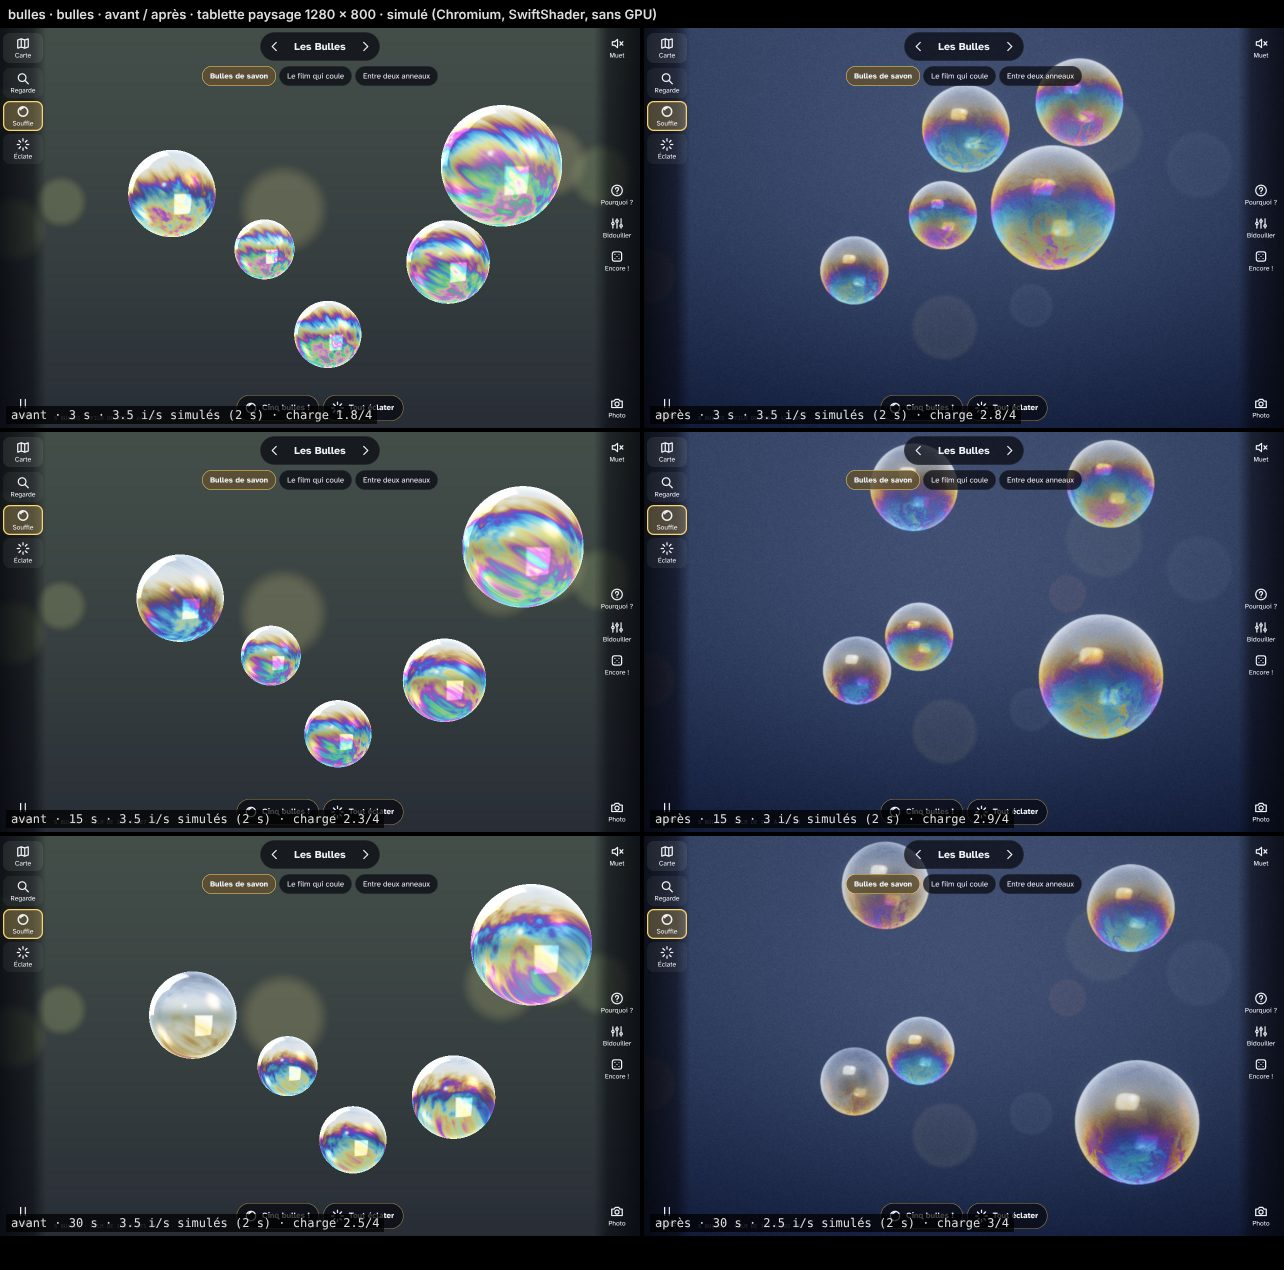
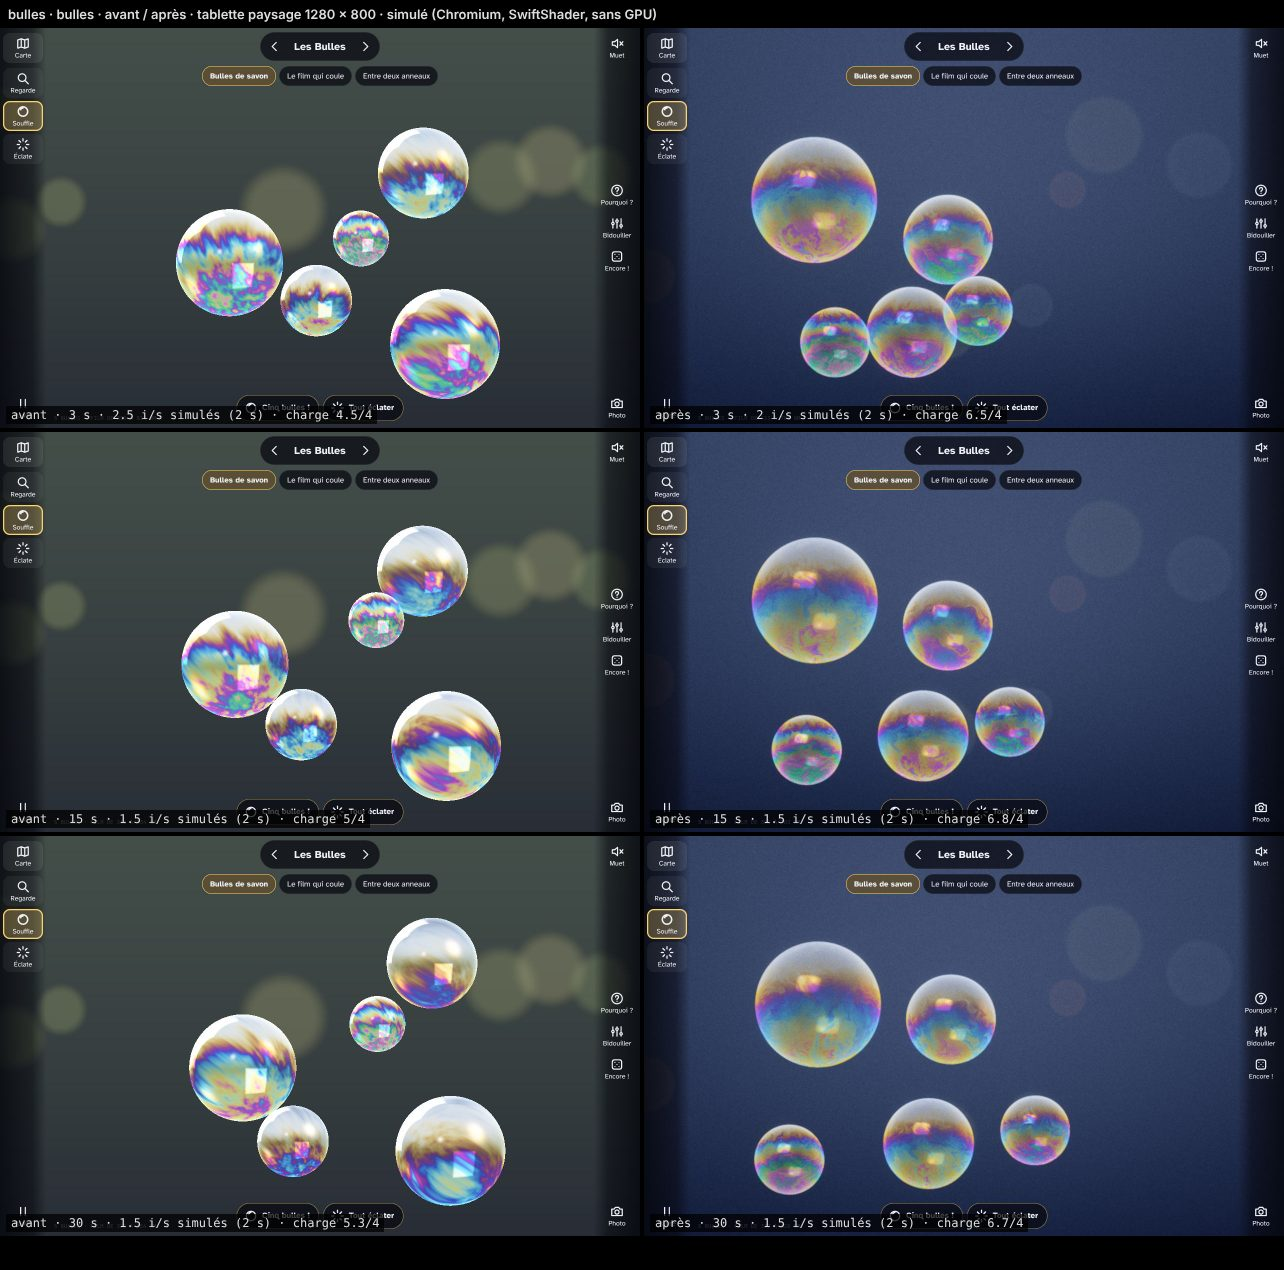
Rendu B · Les Bulles : coût constant (5 bulles vivantes à surface égale, gouttelettes plafonnées)
La scène des bulles de savon démarre au régime et y reste : toujours 5 bulles vivantes, remplacées dès qu'une éclate,
avec la même surface couverte (somme des r² visée, rayons entre 0,06 et 0,16 fois la taille de la vue), et une réserve
de 90 gouttelettes au plus, dont les plus anciennes sont recyclées. Sur hôte calme, pendant 30 s : 5 bulles, couverture
constante de 12 %, tas constant ; la baisse mesurée suivait la charge de l'hôte. Banc corrigé (2 s avant chaque capture) :
avant 2,5 · 1,5 · 1,5 i/s (charge 4,5 à 5,3), après 2 · 1,5 · 1,5 i/s (charge 6,5 à 6,8), à 3, 15 et 30 s.
Ce qui reste exact : la physique du film, les lois d'épaisseur, la simulation des bulles (forces, drainage, éclatement),
les réglages et leurs chemins.

Claude-Session: https://claude.ai/code/session_01MS9d5LtNxKhjVi4V5CV4hG

diff --git a/app/js/machines/s-bulles.js b/app/js/machines/s-bulles.js
@@ -14,7 +14,7 @@
   const { TAU, clamp, rnd } = window.FK;
   const FKR = window.FKR;
   const fr = (x, d = 1) => x.toFixed(d).replace('.', ',');
-  const MAXB = 12, MAXV = 8; // MAXV : bulles à l'écran au plus (plafond de coût)
+  const MAXB = 12, MAXV = 8, NB = 5, MAXG = 90; // MAXV : bulles à l'écran au plus ; NB : bulles vivantes, toujours ; MAXG : gouttelettes au plus (coût constant)
   const LUTN = 2048; // table du film : un texel par nanomètre de chemin optique e·cos θt, de 0 à 2 048 nm
 
   // ── la table des couleurs du film (filmMince de FKR), calculée une fois ──
@@ -392,6 +392,7 @@ void main(){
       b.pop = 0.001; b.px = clamp((x - b.x) / b.r, -0.9, 0.9); b.py = clamp((y - b.y) / b.r, -0.9, 0.9);
       // gouttelettes projetées par le bord qui se rétracte
       for (let i = 0; i < 18; i++) { const a = rnd(TAU); drops.push({ x: b.x + Math.cos(a) * b.r, y: b.y + Math.sin(a) * b.r, vx: Math.cos(a) * rnd(260, 80), vy: Math.sin(a) * rnd(260, 80), life: rnd(0.5, 0.2), teinte: Math.random() < 0.3 ? LAMPE_N : BLANC }); }
+      if (drops.length > MAXG) drops.splice(0, drops.length - MAXG);   // réserve plafonnée : les plus anciennes sont recyclées
       if (snd()) { au.noise(0.05, 0.12, 3500, 1.2, 'bandpass'); au.noise(0.12, 0.05, 900, 1, 'lowpass'); }
     }
     let wind = [];
@@ -418,9 +419,15 @@ void main(){
       for (const d of drops) { d.x += d.vx * dt; d.y += d.vy * dt; d.vy += 600 * dt; d.life -= dt; }
       drops = drops.filter((d) => d.life > 0);
       wind = wind.filter((w) => (w.t -= dt) > 0);
-      if (cfg.auto && B.length < 5 && Math.random() < dt * 0.6) addBubble(v.x0 + rnd(v.w * 0.8, v.w * 0.2), H * rnd(0.9, 0.6));
+      // coût constant : toujours NB bulles vivantes, et la même surface couverte (une bulle qui éclate est remplacée aussitôt)
+      if (cfg.auto) {
+        const vives = B.filter((b) => !b.pop);
+        if (vives.length < NB) { const m = Math.min(v.w, H), reste = aire() - vives.reduce((a, b) => a + b.r * b.r, 0); addBubble(v.x0 + rnd(v.w * 0.8, v.w * 0.2), H * rnd(0.9, 0.6), clamp(Math.sqrt(Math.max(reste, 0)), m * 0.06, m * 0.16)); }
+      }
     }
     const thick = (b) => b.d0 * Math.max(0.03, 1 - (b.age / b.life) * 0.97);
+    // surface visée (somme des r²) : NB fois la moyenne de r² pour r tiré entre 0,06 et 0,16 fois la taille de la vue
+    const aire = () => { const m = Math.min(view().w, H); return NB * 0.01293 * m * m; };
 
     /* ───────── film dans un cadre ───────── */
     let filmAge = 0, vort = [];
@@ -545,7 +552,13 @@ void main(){
 
     function setScene(id) {
       cfg.scene = id; label = null;
-      if (id === 'bulles' && !B.length) { const v = view(); for (let i = 0; i < 5; i++) addBubble(v.x0 + rnd(v.w * 0.85, v.w * 0.15), H * rnd(0.85, 0.25)); B.forEach((b) => (b.age = rnd(b.life * 0.6))); }
+      if (id === 'bulles' && !B.length) {
+        // départ au régime : NB bulles, à la surface visée dès la première image
+        const v = view(), m = Math.min(v.w, H);
+        for (let i = 0; i < NB; i++) addBubble(v.x0 + rnd(v.w * 0.85, v.w * 0.15), H * rnd(0.85, 0.25));
+        const k = Math.sqrt(aire() / B.reduce((a, b) => a + b.r * b.r, 0));
+        B.forEach((b) => { b.age = rnd(b.life * 0.6); b.r = clamp(b.r * k, m * 0.06, m * 0.16); });
+      }
       if (id === 'cadre') { filmAge = 0; vort = []; }
       if (id === 'cate') { cat.broke = false; }
     }
